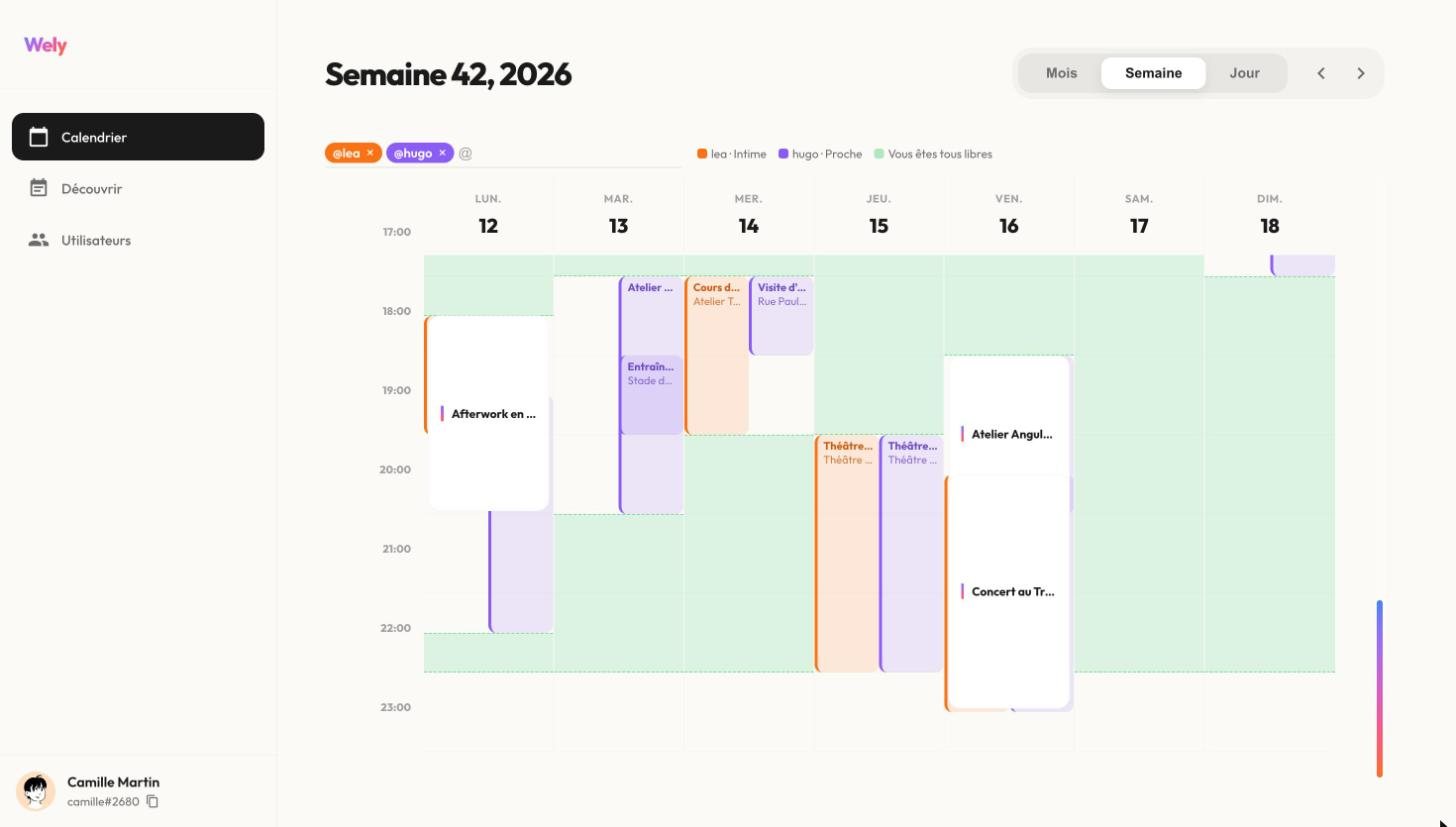
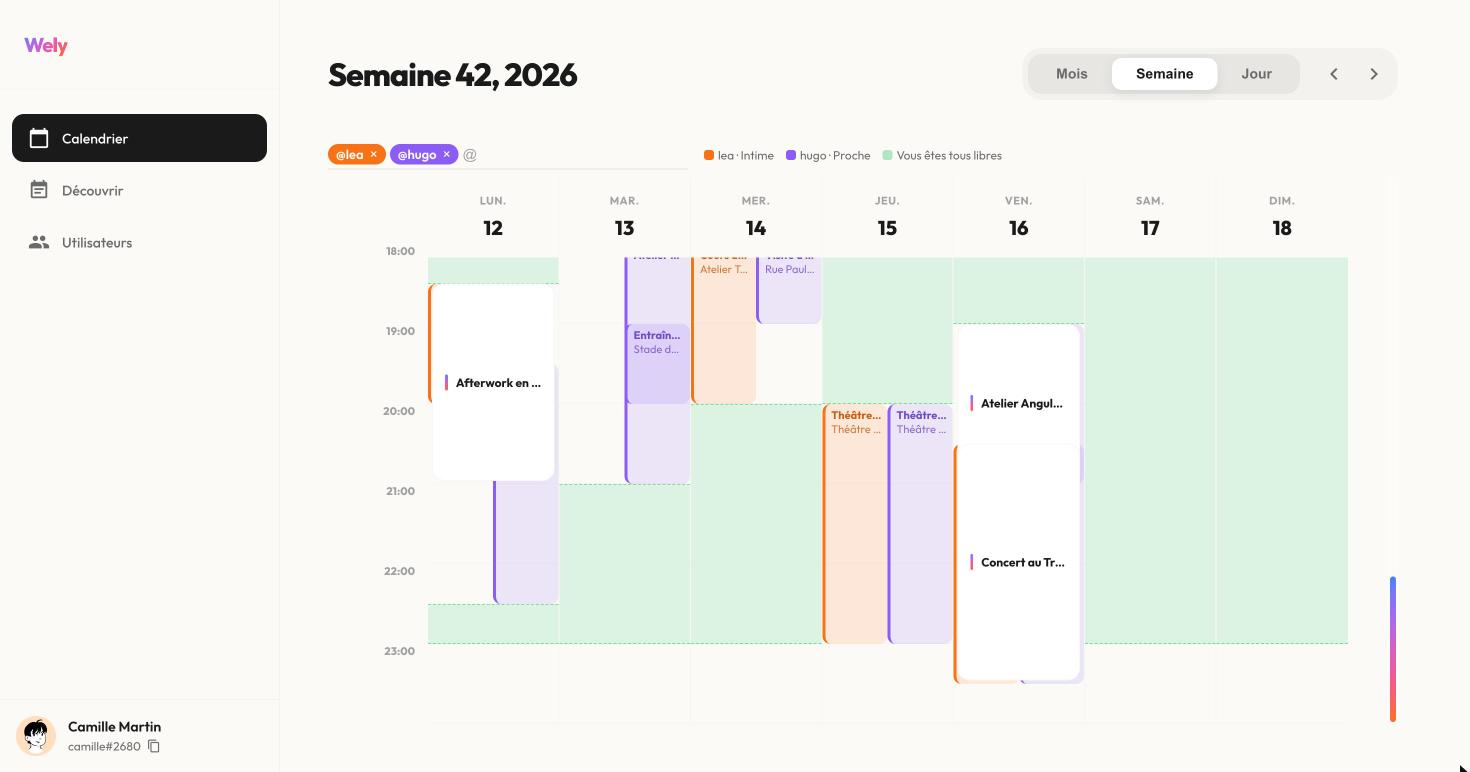
docs: retake the screenshots after the layout fixes
Week view with aligned hours, the slot search popover fully on screen, friend
cards without the fake online dot, and the conversation list with names,
photos and real presence.

diff --git a/README.md b/README.md
@@ -89,9 +89,11 @@ Le compte ne peut changer ni son mot de passe ni son pseudo, et ses données son
     </td>
     <td width="50%" valign="top">
       <img src="docs/screenshots/chat.jpg" alt="Conversation en temps réel entre deux utilisateurs">
+      <img src="docs/screenshots/conversations.jpg" alt="Liste des conversations, avec le vrai statut en ligne de chaque personne">
       <p><strong>Messagerie temps réel.</strong> RSocket sur WebSocket, diffusion entre instances
       par Kafka, messages groupés par cinquante dans un document MongoDB (<em>bucket pattern</em>).
-      Le statut « En ligne » est partagé par les instances via MongoDB, avec un index TTL.</p>
+      Le statut « En ligne » de chaque personne est partagé par les instances via MongoDB, avec un
+      index TTL.</p>
     </td>
   </tr>
   <tr>
